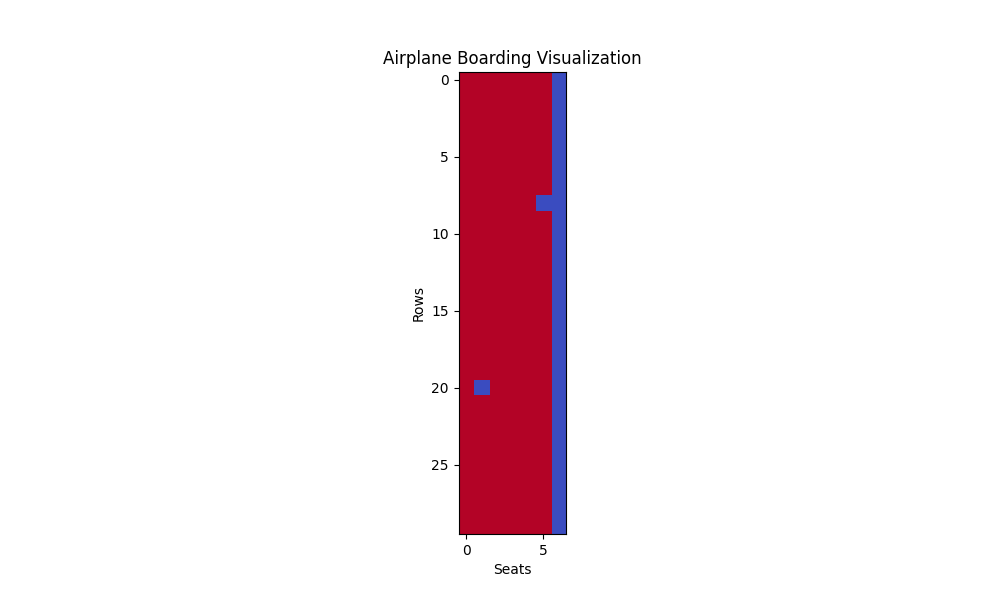
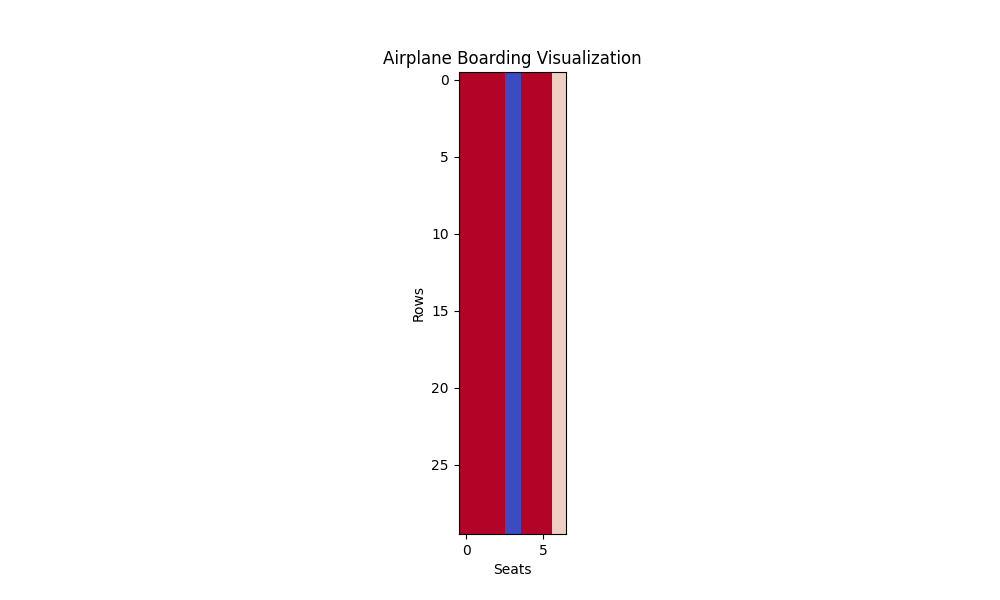
continuously updating and tweaking the model for visualization and congestion dynamics

Changed region(s): [[0.465, 0.12, 0.589, 0.9]]

diff --git a/Agentpysimu/boarding_model.py b/Agentpysimu/boarding_model.py
@@ -4,117 +4,87 @@ from passenger import Passenger
 
 class BoardingModel(ap.Model):
     def setup(self):
-        """
-        Set up the airplane and passengers.
-        """
         self.airplane = Airplane(rows=self.p.rows, seats_per_row=self.p.seats_per_row, aisle_col=self.p.aisle_col)
         self.passengers = ap.AgentList(self, self.p.passenger_count, Passenger)
         self.initialize_visualization()
 
-        # Validate airplane layout
-        assert len(self.airplane.layout) == self.p.rows, "Airplane layout rows mismatch"
-        for row in self.airplane.layout:
-            assert len(row) == self.p.seats_per_row, "Airplane layout column mismatch"
-
-        # Assign passengers to valid seats
         seat_index = 0
-        for passenger in self.passengers:
+        for idx, passenger in enumerate(self.passengers):
             while True:
                 row = seat_index // self.airplane.seats_per_row
                 col = seat_index % self.airplane.seats_per_row
                 seat = self.airplane.layout[row][col]
-
-                seat_index += 1  # Increment seat index
-
-                if seat != "AISLE":  # Skip the aisle
-                    passenger.seat = seat  # Assign valid seat
-                    passenger.position = (row, self.airplane.aisle_col)  # Start in the aisle
+                seat_index += 1
+                if seat != "AISLE":
+                    passenger.seat = seat
+                    passenger.position = None
+                    passenger.boarding_delay = idx * self.p.boarding_rate
                     break
 
-        # Ensure all seats are covered
         total_seats = sum(1 for row in self.airplane.layout for col in row if col != "AISLE")
-        assert total_seats == len(self.passengers), "Mismatch between passengers and available seats"
+        assert total_seats == len(self.passengers)
 
-        # Initialize the data dictionary correctly
-        self.data = ap.DataDict({
-            'boarded': [],
-            'aisle_congestion': [0]  # Initialize with 0 congestion
-        })
-
-        print(f"Initial data structure: {self.data}")
-        print(f"Airplane layout: {self.airplane.layout}")
-
+        self.data = ap.DataDict({'boarded': [], 'aisle_congestion': [0]})
 
     def step(self):
-        """
-        Advance the simulation by one step. Handles row and column movements separately,
-        with visualization updates after each movement to ensure step-by-step progression.
-        """
         aisle_occupancy = {}  # Track passengers per row of the aisle for this step
         has_moved = False  # Track if any passenger moved this step
 
         for passenger in self.passengers:
             if not passenger.boarded:
-                # Introduce delay for passenger
-                if not hasattr(passenger, "delay"):
-                    import random
-                    passenger.delay = random.randint(0, 40)  # Random delay between 0 and 30 steps
+                # Handle boarding delay
+                if passenger.boarding_delay > 0:
+                    passenger.boarding_delay -= 1
+                    continue  # Skip passengers not yet ready to enter the plane
 
-                if passenger.delay > 0:
-                    passenger.delay -= 1
-                    continue  # Skip this passenger's movement for this step
+                # If position is None (outside the plane), place them at the entrance
+                if passenger.position is None:
+                    passenger.position = (0, self.airplane.aisle_col)  # Start at the entrance
+                    has_moved = True
+                    continue
 
                 # Get current and target positions
                 current_row, current_col = passenger.position
                 target_row = int(passenger.seat[:-1]) - 1  # Extract row from seat label
                 target_col = ord(passenger.seat[-1]) - ord('A')  # Convert seat letter to column index
 
-                # Track aisle congestion
+                # Track aisle occupancy
                 aisle_occupancy[current_row] = aisle_occupancy.get(current_row, 0) + 1
 
-                # Add a dynamic delay based on local congestion
-                congestion_level = aisle_occupancy.get(current_row, 0)
-                if congestion_level > 1:  # More than 1 passenger in the aisle row
-                    passenger.delay += congestion_level - 1  # Increase delay proportional to congestion
+                # Mark as boarded if passenger has reached the target
+                if current_row == target_row and current_col == target_col:
+                    passenger.boarded = True
                     continue
 
-                # Handle row movement (prioritized)
+                # Handle aisle (row) movement: Move toward the target row
                 if current_row != target_row:
                     next_row = current_row + 1 if current_row < target_row else current_row - 1
 
-                    # Check congestion in the next row
-                    if aisle_occupancy.get(next_row, 0) < 2:  # Limit to 2 passengers per row
-                        passenger.position = (next_row, current_col)  # Incremental row movement
-                        aisle_occupancy[next_row] = aisle_occupancy.get(next_row, 0) + 1
+                    # Ensure the next row is not congested and allows movement
+                    if aisle_occupancy.get(next_row, 0) == 0:  # Only move if the next row is free
+                        passenger.position = (next_row, current_col)
                         has_moved = True
-                        self.update_visualization()  # Visualize after row movement
-                        continue  # Skip further processing for this passenger
+                        aisle_occupancy[next_row] = aisle_occupancy.get(next_row, 0) + 1
+                        continue
 
-                # Handle column movement (only if row is correct)
-                elif current_col != target_col:
+                # Handle column movement: Only if passenger is at the correct row
+                elif current_row == target_row and current_col != target_col:
                     next_col = current_col + 1 if current_col < target_col else current_col - 1
-                    passenger.position = (current_row, next_col)  # Incremental column movement
+
+                    # Ensure the seat column is free
+                    passenger.position = (current_row, next_col)
                     has_moved = True
-                    self.update_visualization()  # Visualize after column movement
                     continue
 
-                # Passenger successfully seated
-                elif current_row == target_row and current_col == target_col:
-                    passenger.boarded = True
-
-        # Update visualization after all passengers are processed
-        self.update_visualization()
+        # Debugging: Print aisle occupancy
+        print(f"Aisle occupancy at step {self.t}: {aisle_occupancy}")
 
         # Calculate and record aisle congestion
-        aisle_congestion = sum(1 for row, count in aisle_occupancy.items() if count > 1)  # Count rows with >1 passenger
+        aisle_congestion = sum(1 for row, count in aisle_occupancy.items() if count > 1)
         self.data['aisle_congestion'].append(aisle_congestion)
 
-        # Debugging: Aisle congestion information
-        print(f"Step {self.t}: Aisle congestion = {aisle_congestion}")
-
-        # Debugging: Print passenger states
-        for passenger in self.passengers:
-            print(f"Passenger {passenger}: Position = {passenger.position}, Boarded = {passenger.boarded}")
+        # Update visualization
+        self.update_visualization()
 
         # Termination condition: Stop if all passengers are seated or no one moved
         all_seated = all(passenger.boarded for passenger in self.passengers)
@@ -126,88 +96,40 @@ class BoardingModel(ap.Model):
             self.stop()
 
     def update(self):
-        """
-        Collect data during the simulation.
-        """
-        # Track the number of boarded passengers
         boarded_count = sum(1 for p in self.passengers if p.boarded)
         self.data['boarded'].append(boarded_count)
 
-        # Debugging information
-        print(f"Step {self.t}: Boarded passengers = {boarded_count}")
-        print(f"Step {self.t}: Aisle congestion = {self.data['aisle_congestion'][-1]}")
-
-    def end(self):
-        """
-        Finalize the simulation and report results.
-        """
-        # Report the final number of boarded passengers
-        final_boarded_count = sum(1 for p in self.passengers if p.boarded)
-        self.report('Final boarded count', final_boarded_count)
-
-        # Report the total steps taken
-        self.report('Total steps', self.t)
-
-        # Report final boarding percentage
-        self.report('Final boarding percentage', final_boarded_count / self.p.passenger_count * 100)
-
-        if final_boarded_count == self.p.passenger_count:
-            print("Simulation ended: All passengers are seated.")
-        else:
-            print("Simulation ended: Maximum steps reached.")
-
-        self.finalize_visualization()
-    
     def initialize_visualization(self):
-        """
-        Set up the visualization environment.
-        """
         import matplotlib.pyplot as plt
+        import numpy as np
         self.fig, self.ax = plt.subplots(figsize=(10, 6))
-        self.im = None
-        self.visual_data = []
-        print("Visualization initialized.")
+        layout_grid = np.zeros((self.airplane.rows, self.airplane.seats_per_row))
+        layout_grid[:, self.airplane.aisle_col] = -1
+        self.ax.imshow(layout_grid, cmap="Greys", interpolation="nearest", alpha=0.3)
+        self.scatter = self.ax.scatter([], [], color='blue', s=50, label="Passengers")
+        self.ax.set_title("Airplane Boarding Visualization")
+        self.ax.set_xlabel("Seats")
+        self.ax.set_ylabel("Rows")
+        self.ax.legend()
 
     def update_visualization(self):
         """
-        Update the visualization after each step, ensuring the aisle is correctly represented in the middle.
+        Update the visualization after each step, showing agents (passengers) moving in real time.
         """
         import matplotlib.pyplot as plt
-        import numpy as np
+        x_positions = []
+        y_positions = []
+        colors = []
 
-        # Create a grid representing the airplane
-        grid = np.zeros((self.airplane.rows, self.airplane.seats_per_row))
-
-        # Mark aisle cells explicitly
-        grid[:, self.airplane.aisle_col] = -1  # Aisle cells
-
-        # Update the grid with passenger positions
         for passenger in self.passengers:
+            if passenger.position is None:
+                continue
             row, col = passenger.position
-            if passenger.boarded:
-                grid[row, col] = 1  # Seated passenger
-            elif col == self.airplane.aisle_col:
-                grid[row, col] = 0.5  # Passenger in aisle
+            x_positions.append(col)
+            y_positions.append(row)
+            colors.append("green" if passenger.boarded else "red" if col == self.airplane.aisle_col else "blue")
 
-        # Update the plot
-        if self.im:
-            self.im.set_data(grid)
-        else:
-            self.im = self.ax.imshow(grid, cmap="coolwarm", interpolation="nearest")
-            self.ax.set_title("Airplane Boarding Visualization")
-            self.ax.set_xlabel("Seats")
-            self.ax.set_ylabel("Rows")
-
-        plt.pause(0.1)  # Pause to allow visualization updates
-        self.visual_data.append(grid.copy())
-    
-    def finalize_visualization(self):
-        """
-        Finalize and save the visualization.
-        """
-        import matplotlib.pyplot as plt
-        self.fig.savefig("boarding_visualization.png")
-        plt.close(self.fig)
-        print("Visualization finalized and saved.")
-
+        self.scatter.set_offsets(list(zip(x_positions, y_positions)))
+        self.scatter.set_color(colors)
+        plt.pause(0.2)  # Slower updates to visualize movements better
     

diff --git a/Agentpysimu/main.py b/Agentpysimu/main.py
@@ -8,6 +8,7 @@ parameters = {
     'aisle_col': 3,
     'passenger_count': 180,
     'steps': 50,
+    'boarding_rate': 2
 }
 
 # Run the model
